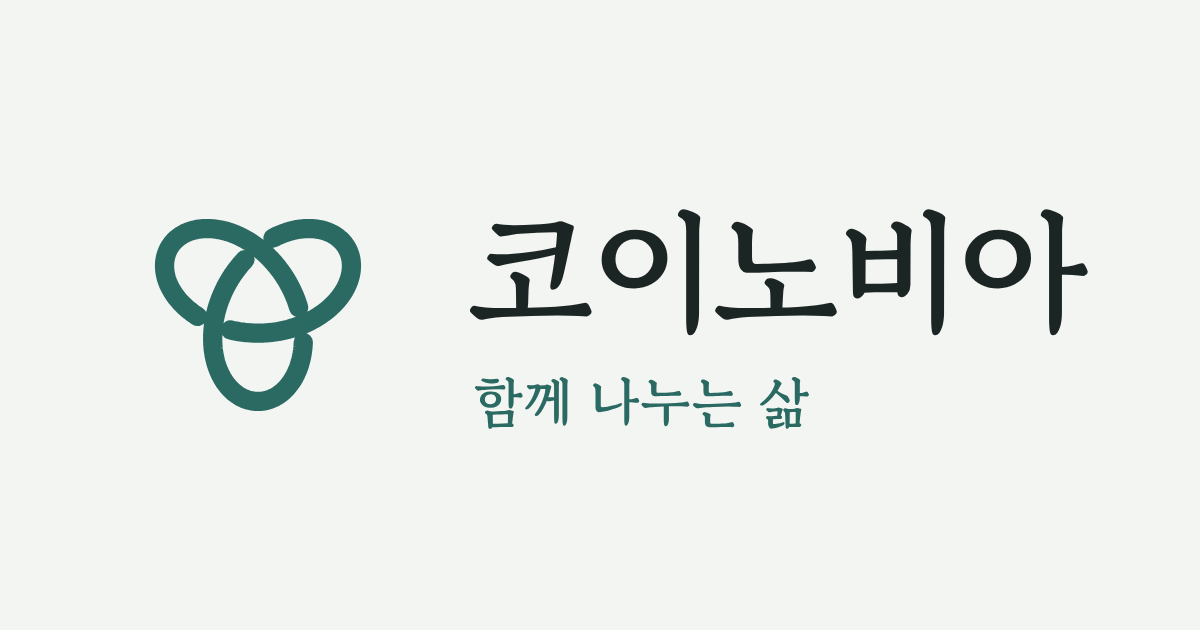
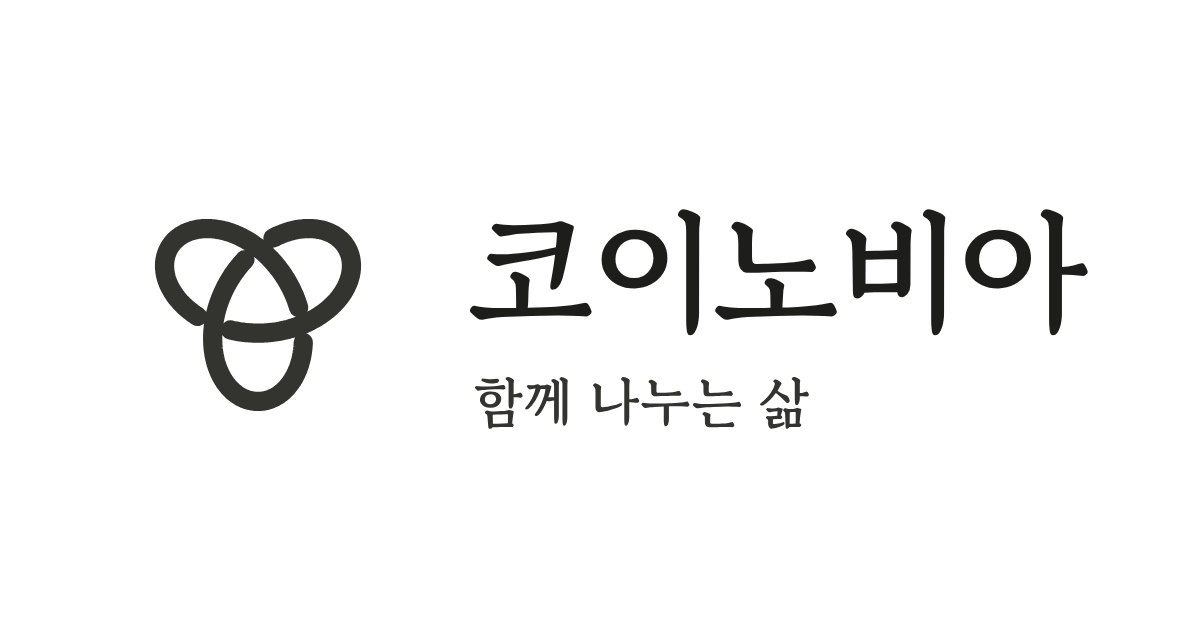
코이노비아 색을 흰 바탕 + 먹색 포인트로, 세 앱 색을 매듭 고리와 앱 카드에
- 바탕 흰색, 버튼·강조는 먹색(#33332F). 어두운 화면 값도 함께 바꿈
- 세 앱 색(--c0 코이데 초록, --c1 디다코 브라운, --c2 텔리오 장미)을 만들어 첫 화면 매듭 고리·배경 번짐·앱 카드·기도와 말씀 카드에 씀
- 앱 탭의 카드도 앱마다 자기 색
- 탭 아이콘과 링크 미리보기 그림을 새 색으로 다시 만듦

Claude-Session: https://claude.ai/code/session_0164q8wQgjcwmqieYCwKahXF

Changed region(s): [[0.1233, 0.3317, 0.3083, 0.6635], [0.4008, 0.6032, 0.6783, 0.6937]]

diff --git a/index.html b/index.html
@@ -5,7 +5,7 @@
 <meta name="viewport" content="width=device-width, initial-scale=1, viewport-fit=cover">
 <title>코이노비아</title>
 <meta name="description" content="공동체로 존재하는 그리스도인의 삶. 코이데, 디다코, 텔리오로 연결됩니다.">
-<meta name="theme-color" content="#2B6A62">
+<meta name="theme-color" content="#FFFFFF">
 <!-- 링크 미리보기(카카오톡 등). 도메인(koinobia.com)을 연결했으니 og:image와 og:url도 이 주소로 맞춰 두었어요. 도메인을 바꾸면 여기도 같이 바꿔 주세요 -->
 <meta property="og:type" content="website">
 <meta property="og:title" content="코이노비아">
@@ -22,25 +22,35 @@
 <link rel="stylesheet" href="https://fonts.googleapis.com/css2?family=Gowun+Batang:wght@700&family=IBM+Plex+Sans+KR:wght@400;500;600&display=swap">
 <link rel="stylesheet" href="tabs.css">
 <style>
-/* 색과 글꼴은 코이데(app/index.html)의 기본 스타일과 같은 값을 그대로 씁니다. 새 색은 없어요 */
+/* 코이노비아 색: 흰 바탕 + 먹색 포인트. 세 앱의 색(--c0 코이데·--c1 디다코·--c2 텔리오)은 매듭 고리와 앱 카드에 써요 */
 :root {
-  --page: #F3F5F2; --surface: #FFFFFF; --surface-2: #EEF2EF;
-  --ink: #1B2523; --ink-2: #5B6965; --line: #DDE4E0; --line-strong: #B9C4BF;
-  --accent: #2B6A62; --accent-mid: #8DBDB5; --accent-soft: #DCEBE7; --on-accent: #FFFFFF;
-  --shadow: rgba(20, 35, 32, .14);
+  --page: #FFFFFF; --surface: #FFFFFF; --surface-2: #F4F4F1;
+  --ink: #1D1D1B; --ink-2: #62625E; --line: #E4E4E0; --line-strong: #C9C9C3;
+  --accent: #33332F; --accent-mid: #A3A39C; --accent-soft: #EEEEEA; --on-accent: #FFFFFF;
+  --shadow: rgba(20, 20, 18, .12);
+  /* 세 앱의 색: 0 코이데(초록), 1 디다코(브라운), 2 텔리오(장미). 매듭 고리와 앱 카드에 써요 */
+  --c0: #2B6A62; --c0-mid: #8DBDB5; --c0-soft: #DCEBE7;
+  --c1: #6B4A2E; --c1-mid: #C4A27F; --c1-soft: #EADFCD;
+  --c2: #A8435C; --c2-mid: #DDA2B1; --c2-soft: #F5DFE5;
   --base: 16px;
   --f-display: 'Gowun Batang', 'AppleMyungjo', 'Batang', serif;
   --f-body: 'IBM Plex Sans KR', 'Apple SD Gothic Neo', 'Malgun Gothic', sans-serif;
 }
 @media (prefers-color-scheme: dark) { :root:not([data-theme="light"]) {
-  --page: #141B19; --surface: #1C2522; --surface-2: #232D2A;
-  --ink: #E5ECE9; --ink-2: #9CAAA5; --line: #2D3935; --line-strong: #4A5853;
-  --accent: #7CC2B7; --accent-mid: #3F7C73; --accent-soft: #1E3934; --on-accent: #0F1A18;
+  --page: #141414; --surface: #1D1D1C; --surface-2: #252524;
+  --ink: #ECECE8; --ink-2: #A3A39E; --line: #30302E; --line-strong: #4D4D4A;
+  --accent: #E2E2DC; --accent-mid: #6A6A65; --accent-soft: #2E2E2C; --on-accent: #141414;
+  --c0: #7CC2B7; --c0-mid: #3F7C73; --c0-soft: #1E3934;
+  --c1: #D2B08A; --c1-mid: #7E6247; --c1-soft: #362B20;
+  --c2: #E896AB; --c2-mid: #86475A; --c2-soft: #3B2029;
   --shadow: rgba(0, 0, 0, .5); color-scheme: dark; } }
 :root[data-theme="dark"] {
-  --page: #141B19; --surface: #1C2522; --surface-2: #232D2A;
-  --ink: #E5ECE9; --ink-2: #9CAAA5; --line: #2D3935; --line-strong: #4A5853;
-  --accent: #7CC2B7; --accent-mid: #3F7C73; --accent-soft: #1E3934; --on-accent: #0F1A18;
+  --page: #141414; --surface: #1D1D1C; --surface-2: #252524;
+  --ink: #ECECE8; --ink-2: #A3A39E; --line: #30302E; --line-strong: #4D4D4A;
+  --accent: #E2E2DC; --accent-mid: #6A6A65; --accent-soft: #2E2E2C; --on-accent: #141414;
+  --c0: #7CC2B7; --c0-mid: #3F7C73; --c0-soft: #1E3934;
+  --c1: #D2B08A; --c1-mid: #7E6247; --c1-soft: #362B20;
+  --c2: #E896AB; --c2-mid: #86475A; --c2-soft: #3B2029;
   --shadow: rgba(0, 0, 0, .5); color-scheme: dark; }
 @media (min-width: 1000px) { :root { --base: 17px; } }
 
@@ -81,10 +91,10 @@ h1, h2, h3, p { margin: 0; }
 .hero { position: relative; overflow: hidden; isolation: isolate; padding-block: clamp(36px, 7vw, 96px) clamp(56px, 8vw, 110px); }
 .aurora { position: absolute; inset: 0; z-index: -1; pointer-events: none; overflow: hidden; }
 .blob { position: absolute; border-radius: 50%; filter: blur(70px); will-change: transform; }
-.blob.b1 { width: min(52vw, 620px); aspect-ratio: 1; left: -10%; top: -18%; background: var(--accent-soft); opacity: .55; animation: drift1 26s ease-in-out infinite alternate; }
-.blob.b2 { width: min(46vw, 520px); aspect-ratio: 1; right: -8%; top: 4%; background: var(--accent-mid); opacity: .35; animation: drift2 30s ease-in-out infinite alternate; }
+.blob.b1 { width: min(52vw, 620px); aspect-ratio: 1; left: -10%; top: -18%; background: var(--c0-soft); opacity: .7; animation: drift1 26s ease-in-out infinite alternate; }
+.blob.b2 { width: min(46vw, 520px); aspect-ratio: 1; right: -8%; top: 4%; background: var(--c1-soft); opacity: .8; animation: drift2 30s ease-in-out infinite alternate; }
 .blob.b3 { width: min(56vw, 640px); aspect-ratio: 1; left: 28%; bottom: -34%; background: var(--surface-2); opacity: .95; animation: drift3 22s ease-in-out infinite alternate; }
-.blob.b4 { width: min(34vw, 380px); aspect-ratio: 1; right: 22%; bottom: -8%; background: var(--accent-soft); opacity: .4; animation: drift2 24s ease-in-out infinite alternate-reverse; }
+.blob.b4 { width: min(34vw, 380px); aspect-ratio: 1; right: 22%; bottom: -8%; background: var(--c2-soft); opacity: .7; animation: drift2 24s ease-in-out infinite alternate-reverse; }
 @media (max-width: 899px) { .blob { filter: blur(56px); } .blob.b1, .blob.b2, .blob.b3, .blob.b4 { width: 78vw; } }
 .hero::after { content: ""; position: absolute; left: 0; right: 0; bottom: 0; height: 90px; z-index: -1; background: linear-gradient(to bottom, transparent, var(--page)); pointer-events: none; }
 @keyframes drift1 { to { transform: translate3d(8vw, 6vh, 0) scale(1.14); } }
@@ -106,14 +116,22 @@ h1 { font-family: var(--f-display); font-weight: 700; font-size: clamp(3rem, 8vw
 .knot-svg path { fill: none; stroke-linecap: round; stroke-linejoin: round; }
 .k-base { stroke: var(--accent-mid); stroke-width: 22; stroke-dasharray: 1; animation: kdraw 2.4s cubic-bezier(.45, .05, .25, 1) .3s backwards; }
 @keyframes kdraw { from { stroke-dashoffset: 1; opacity: 0; } 3% { opacity: 1; } }
-.kl { stroke: var(--accent); opacity: 0; transition: opacity .5s ease, filter .5s ease; }
-.kl.on { opacity: 1; filter: drop-shadow(0 0 7px color-mix(in srgb, var(--accent) 55%, transparent)); }
+/* 매듭의 세 고리는 앱 색이에요. 평소엔 옅게, 고른 앱의 고리만 또렷하게 */
+[data-k="0"] { --app: var(--c0); } [data-k="1"] { --app: var(--c1); } [data-k="2"] { --app: var(--c2); }
+.kl { stroke: var(--app, var(--accent)); opacity: .7; transition: opacity .5s ease, filter .5s ease; }
+.knot-svg .kl { animation: klin .8s ease 2.4s backwards; }
+@keyframes klin { from { opacity: 0; } }
+.kl.on { opacity: 1; filter: drop-shadow(0 0 7px color-mix(in srgb, var(--app, var(--accent)) 55%, transparent)); }
 .klabel { position: absolute; white-space: nowrap; transform: translate(-50%, -50%); min-height: 34px; padding: 0 14px; border-radius: 999px; border: 1px solid var(--line); background: color-mix(in srgb, var(--surface) 88%, transparent); color: var(--ink-2); font-size: .84rem; font-weight: 600; cursor: pointer; box-shadow: 0 4px 12px -6px var(--shadow); transition: background .3s, color .3s, border-color .3s, transform .2s; animation: pop .5s ease 2.6s backwards; }
-.klabel:hover { transform: translate(-50%, -50%) scale(1.06); border-color: var(--accent); color: var(--accent); }
-.klabel.on { background: var(--accent); border-color: var(--accent); color: var(--on-accent); }
+.klabel:hover { transform: translate(-50%, -50%) scale(1.06); border-color: var(--app); color: var(--app); }
+.klabel.on { background: var(--app); border-color: var(--app); color: var(--on-accent); }
 @keyframes pop { from { opacity: 0; scale: .8; } }
 
 /* ───── 3. 우리 앱 ───── */
+/* 고른 앱(data-kind)에 따라 탭·카드·그림이 그 앱의 색으로 바뀌어요. 기도와 말씀 카드도 같아요 */
+[data-kind="0"] { --accent: var(--c0); --accent-mid: var(--c0-mid); --accent-soft: var(--c0-soft); }
+[data-kind="1"] { --accent: var(--c1); --accent-mid: var(--c1-mid); --accent-soft: var(--c1-soft); }
+[data-kind="2"] { --accent: var(--c2); --accent-mid: var(--c2-mid); --accent-soft: var(--c2-soft); }
 .eyebrow { font-size: .82rem; font-weight: 600; color: var(--ink-2); letter-spacing: .14em; }
 .h2 { font-family: var(--f-display); font-weight: 700; font-size: clamp(2rem, 4.6vw, 3.2rem); line-height: 1.2; letter-spacing: -.01em; margin-top: .3em; word-break: keep-all; }
 .sec-lead { color: var(--ink-2); margin-top: .9em; max-width: 32em; word-break: keep-all; }
@@ -142,13 +160,13 @@ h1 { font-family: var(--f-display); font-weight: 700; font-size: clamp(3rem, 8vw
 .app-name { font-family: var(--f-display); font-weight: 700; font-size: clamp(2.2rem, 4vw, 3.4rem); line-height: 1.15; margin-top: .35em; }
 .greek { color: var(--ink-2); font-size: .88rem; margin-top: .3em; word-break: keep-all; }
 .desc { margin-top: 1em; word-break: keep-all; }
-.act { margin-top: 1.6em; display: flex; flex-wrap: wrap; gap: 10px; }
+.act { margin-top: 1.6em; display: flex; flex-wrap: wrap; align-items: center; gap: 10px; }
 .soon { display: inline-block; font-size: .88rem; color: var(--ink-2); background: var(--surface-2); border: 1px solid var(--line); border-radius: 999px; padding: .4em 1.1em; }
 .mk { position: absolute; top: 14px; right: 14px; z-index: 2; width: 48px; height: 48px; padding: 2px; border-radius: 50%; background: color-mix(in srgb, var(--surface) 80%, transparent); border: 1px solid var(--line); }
 .mk svg { width: 100%; height: 100%; display: block; }
 .mk path { fill: none; stroke-linecap: round; stroke-linejoin: round; }
 .mk .mb { stroke: var(--accent-mid); }
-.mk .kl { stroke: var(--accent); }
+.mk .kl { stroke: var(--app); opacity: 0; } .mk .kl.on { opacity: 1; filter: none; }
 
 .stage { position: relative; margin: 14px; min-height: 250px; border-radius: 18px; overflow: hidden; display: grid; place-items: center; background: linear-gradient(145deg, var(--accent-soft), var(--surface-2)); order: -1; isolation: isolate; }
 @media (min-width: 900px) { .stage { order: 0; min-height: 420px; } }
@@ -557,6 +575,7 @@ h1 { font-family: var(--f-display); font-weight: 700; font-size: clamp(3rem, 8vw
     });
     $$('.dot').forEach(function (b) { b.setAttribute('aria-current', +b.getAttribute('data-i') === sel); });
     $('#card').setAttribute('aria-labelledby', 'tab' + sel);
+    $('#apps').setAttribute('data-kind', kindOf(a, sel));   // 앱 구역 전체를 고른 앱의 색으로
     var act = a.url ? '<a class="btn btn-lg" href="' + esc(a.url) + '" aria-label="' + esc(a.name) + ' 열기">열기</a>' : '<span class="soon">곧 만나요</span>';
     // "화면 보기": 앱 탭(/apps/)에서 그 앱의 실제 화면 사진으로 가요. 사진(screens)이 있는 앱만 보여요
     if (a.screens) act += ' <a class="btn btn-lg btn-ghost" href="/apps/#' + esc(a.id) + '">화면 보기</a>';

diff --git a/page.css b/page.css
@@ -1,23 +1,33 @@
 /* 코이노비아 안쪽 페이지(이야기·앱·소식)가 같이 쓰는 모양이에요.
-   색과 글꼴은 대문(index.html)과 같은 값을 그대로 써요. 색을 바꾸려면 대문과 여기 두 곳을 같이 바꿔 주세요. */
+   색과 글꼴은 대문(index.html)과 같은 값을 그대로 써요(흰 바탕 + 먹색 포인트, 세 앱 색은 --c0·--c1·--c2). 색을 바꾸려면 대문과 여기 두 곳을 같이 바꿔 주세요. */
 :root {
-  --page: #F3F5F2; --surface: #FFFFFF; --surface-2: #EEF2EF;
-  --ink: #1B2523; --ink-2: #5B6965; --line: #DDE4E0; --line-strong: #B9C4BF;
-  --accent: #2B6A62; --accent-mid: #8DBDB5; --accent-soft: #DCEBE7; --on-accent: #FFFFFF;
-  --shadow: rgba(20, 35, 32, .14);
+  --page: #FFFFFF; --surface: #FFFFFF; --surface-2: #F4F4F1;
+  --ink: #1D1D1B; --ink-2: #62625E; --line: #E4E4E0; --line-strong: #C9C9C3;
+  --accent: #33332F; --accent-mid: #A3A39C; --accent-soft: #EEEEEA; --on-accent: #FFFFFF;
+  --shadow: rgba(20, 20, 18, .12);
+  /* 세 앱의 색: 0 코이데(초록), 1 디다코(브라운), 2 텔리오(장미). 매듭 고리와 앱 카드에 써요 */
+  --c0: #2B6A62; --c0-mid: #8DBDB5; --c0-soft: #DCEBE7;
+  --c1: #6B4A2E; --c1-mid: #C4A27F; --c1-soft: #EADFCD;
+  --c2: #A8435C; --c2-mid: #DDA2B1; --c2-soft: #F5DFE5;
   --base: 16px;
   --f-display: 'Gowun Batang', 'AppleMyungjo', 'Batang', serif;
   --f-body: 'IBM Plex Sans KR', 'Apple SD Gothic Neo', 'Malgun Gothic', sans-serif;
 }
 @media (prefers-color-scheme: dark) { :root:not([data-theme="light"]) {
-  --page: #141B19; --surface: #1C2522; --surface-2: #232D2A;
-  --ink: #E5ECE9; --ink-2: #9CAAA5; --line: #2D3935; --line-strong: #4A5853;
-  --accent: #7CC2B7; --accent-mid: #3F7C73; --accent-soft: #1E3934; --on-accent: #0F1A18;
+  --page: #141414; --surface: #1D1D1C; --surface-2: #252524;
+  --ink: #ECECE8; --ink-2: #A3A39E; --line: #30302E; --line-strong: #4D4D4A;
+  --accent: #E2E2DC; --accent-mid: #6A6A65; --accent-soft: #2E2E2C; --on-accent: #141414;
+  --c0: #7CC2B7; --c0-mid: #3F7C73; --c0-soft: #1E3934;
+  --c1: #D2B08A; --c1-mid: #7E6247; --c1-soft: #362B20;
+  --c2: #E896AB; --c2-mid: #86475A; --c2-soft: #3B2029;
   --shadow: rgba(0, 0, 0, .5); color-scheme: dark; } }
 :root[data-theme="dark"] {
-  --page: #141B19; --surface: #1C2522; --surface-2: #232D2A;
-  --ink: #E5ECE9; --ink-2: #9CAAA5; --line: #2D3935; --line-strong: #4A5853;
-  --accent: #7CC2B7; --accent-mid: #3F7C73; --accent-soft: #1E3934; --on-accent: #0F1A18;
+  --page: #141414; --surface: #1D1D1C; --surface-2: #252524;
+  --ink: #ECECE8; --ink-2: #A3A39E; --line: #30302E; --line-strong: #4D4D4A;
+  --accent: #E2E2DC; --accent-mid: #6A6A65; --accent-soft: #2E2E2C; --on-accent: #141414;
+  --c0: #7CC2B7; --c0-mid: #3F7C73; --c0-soft: #1E3934;
+  --c1: #D2B08A; --c1-mid: #7E6247; --c1-soft: #362B20;
+  --c2: #E896AB; --c2-mid: #86475A; --c2-soft: #3B2029;
   --shadow: rgba(0, 0, 0, .5); color-scheme: dark; }
 @media (min-width: 1000px) { :root { --base: 17px; } }
 
@@ -77,7 +87,10 @@ img { max-width: 100%; display: block; }
 .und-list b { display: block; font-weight: 600; }
 .und-list p { margin-top: .2em; color: var(--ink-2); font-size: .96rem; }
 
-/* 앱 */
+/* 앱: 앱 카드마다 그 앱의 색(초록·브라운·장미)을 써요 */
+#koide { --accent: var(--c0); --accent-mid: var(--c0-mid); --accent-soft: var(--c0-soft); }
+#didako { --accent: var(--c1); --accent-mid: var(--c1-mid); --accent-soft: var(--c1-soft); }
+#telio { --accent: var(--c2); --accent-mid: var(--c2-mid); --accent-soft: var(--c2-soft); }
 .app-top { display: flex; flex-wrap: wrap; align-items: center; gap: 16px; }
 .app-ic { flex: none; width: 56px; height: 56px; border-radius: 16px; display: grid; place-items: center; background: var(--accent-soft); color: var(--accent); }
 .app-ic svg { width: 30px; height: 30px; fill: none; stroke: currentColor; stroke-width: 1.8; stroke-linecap: round; stroke-linejoin: round; }

diff --git a/tools/make-images.js b/tools/make-images.js
@@ -7,7 +7,7 @@ const root = path.join(__dirname, '..');
 let chromium;
 try { ({ chromium } = require('playwright')); } catch (e) { ({ chromium } = require('/opt/node-tools/node_modules/playwright')); }
 
-const ACCENT = '#2B6A62', ON_ACCENT = '#FFFFFF', PAGE = '#F3F5F2', INK = '#1B2523';
+const ACCENT = '#33332F', ON_ACCENT = '#FFFFFF', PAGE = '#FFFFFF', INK = '#1D1D1B';
 
 // 삼엽 매듭 한 바퀴를 점으로 찍고, 교차점에서 아래로 지나는 줄을 끊어 선 조각들(path)로 돌려준다.
 // size: 매듭 가로 폭(선 중심 기준), sw: 선 굵기 (clear는 쓰지 않음)

diff --git a/about/index.html b/about/index.html
@@ -5,7 +5,7 @@
 <meta name="viewport" content="width=device-width, initial-scale=1, viewport-fit=cover">
 <title>이야기 · 코이노비아</title>
 <meta name="description" content="코이노비아가 바라는 삶과 세 앱을 만든 까닭을 적었습니다.">
-<meta name="theme-color" content="#2B6A62">
+<meta name="theme-color" content="#FFFFFF">
 <meta property="og:type" content="website">
 <meta property="og:title" content="이야기 · 코이노비아">
 <meta property="og:description" content="코이노비아가 바라는 삶과 세 앱을 만든 까닭을 적었습니다.">

diff --git a/apps/index.html b/apps/index.html
@@ -5,7 +5,7 @@
 <meta name="viewport" content="width=device-width, initial-scale=1, viewport-fit=cover">
 <title>앱 · 코이노비아</title>
 <meta name="description" content="코이데, 디다코, 텔리오 세 앱을 실제 화면과 함께 소개해요.">
-<meta name="theme-color" content="#2B6A62">
+<meta name="theme-color" content="#FFFFFF">
 <meta property="og:type" content="website">
 <meta property="og:title" content="앱 · 코이노비아">
 <meta property="og:description" content="코이데, 디다코, 텔리오 세 앱을 실제 화면과 함께 소개해요.">

diff --git a/news/index.html b/news/index.html
@@ -5,7 +5,7 @@
 <meta name="viewport" content="width=device-width, initial-scale=1, viewport-fit=cover">
 <title>소식 · 코이노비아</title>
 <meta name="description" content="코이노비아와 세 앱의 업데이트 소식과 안내예요.">
-<meta name="theme-color" content="#2B6A62">
+<meta name="theme-color" content="#FFFFFF">
 <meta property="og:type" content="website">
 <meta property="og:title" content="소식 · 코이노비아">
 <meta property="og:description" content="코이노비아와 세 앱의 업데이트 소식과 안내예요.">
